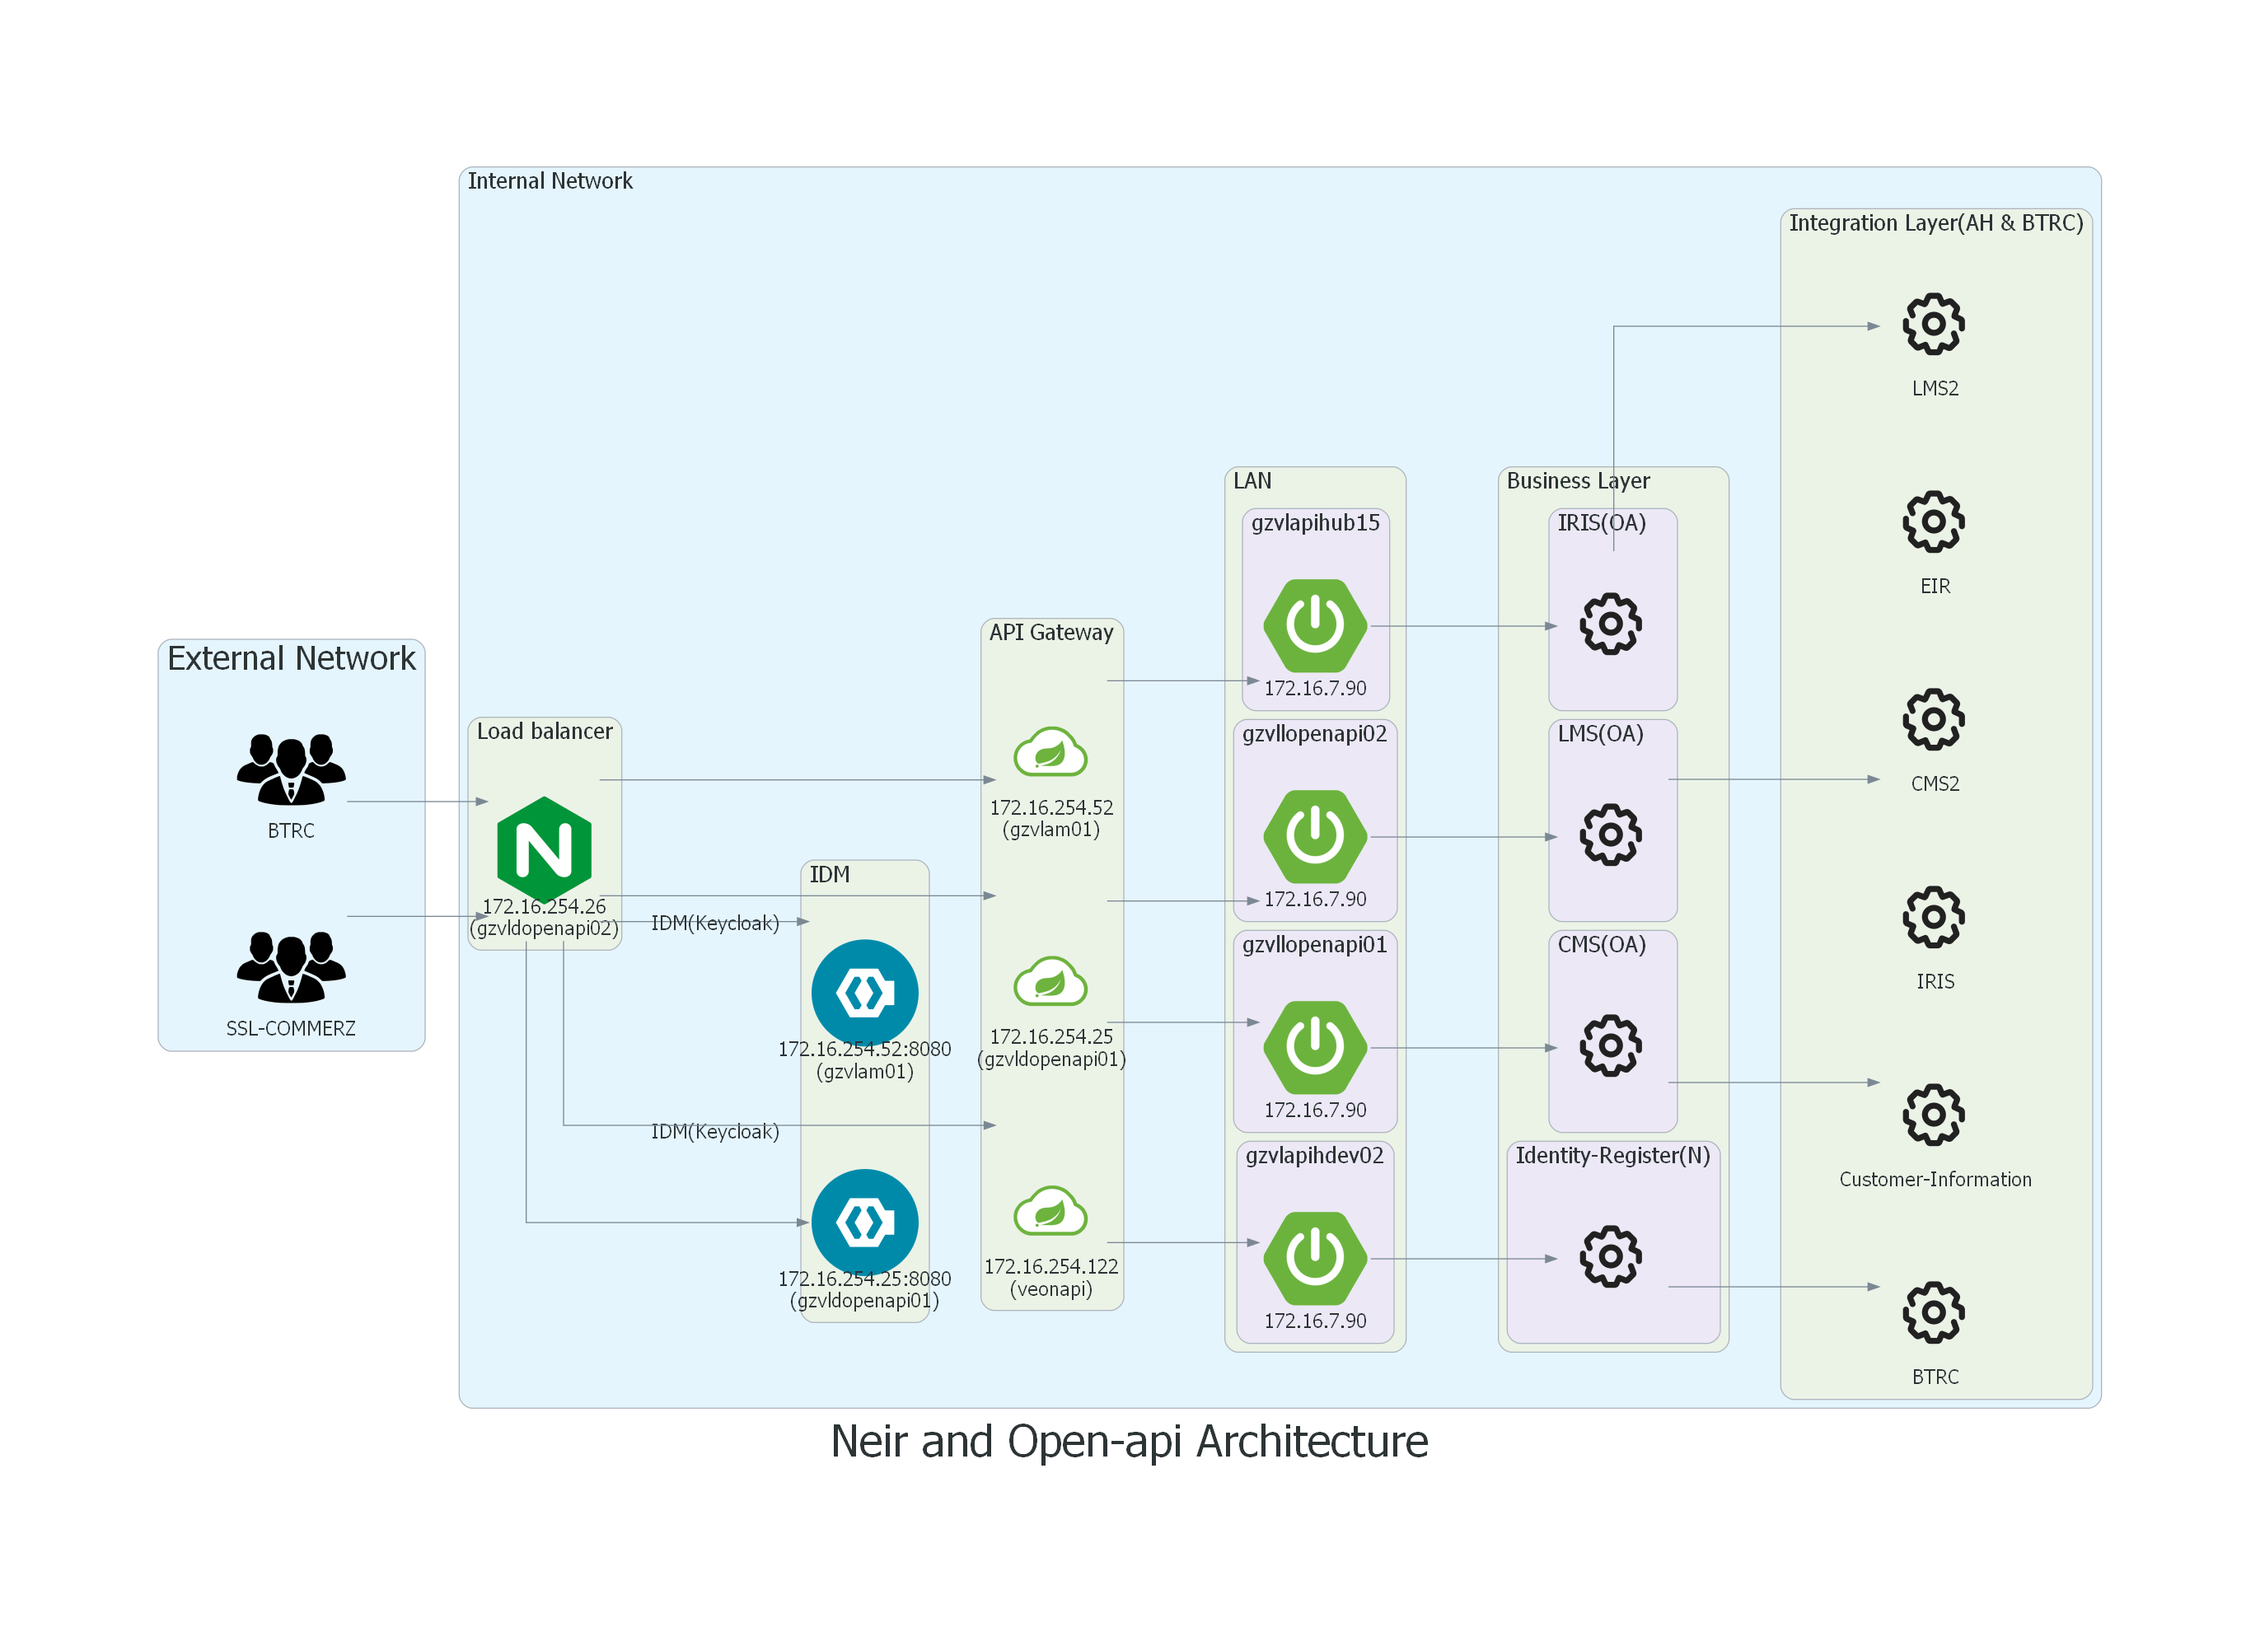
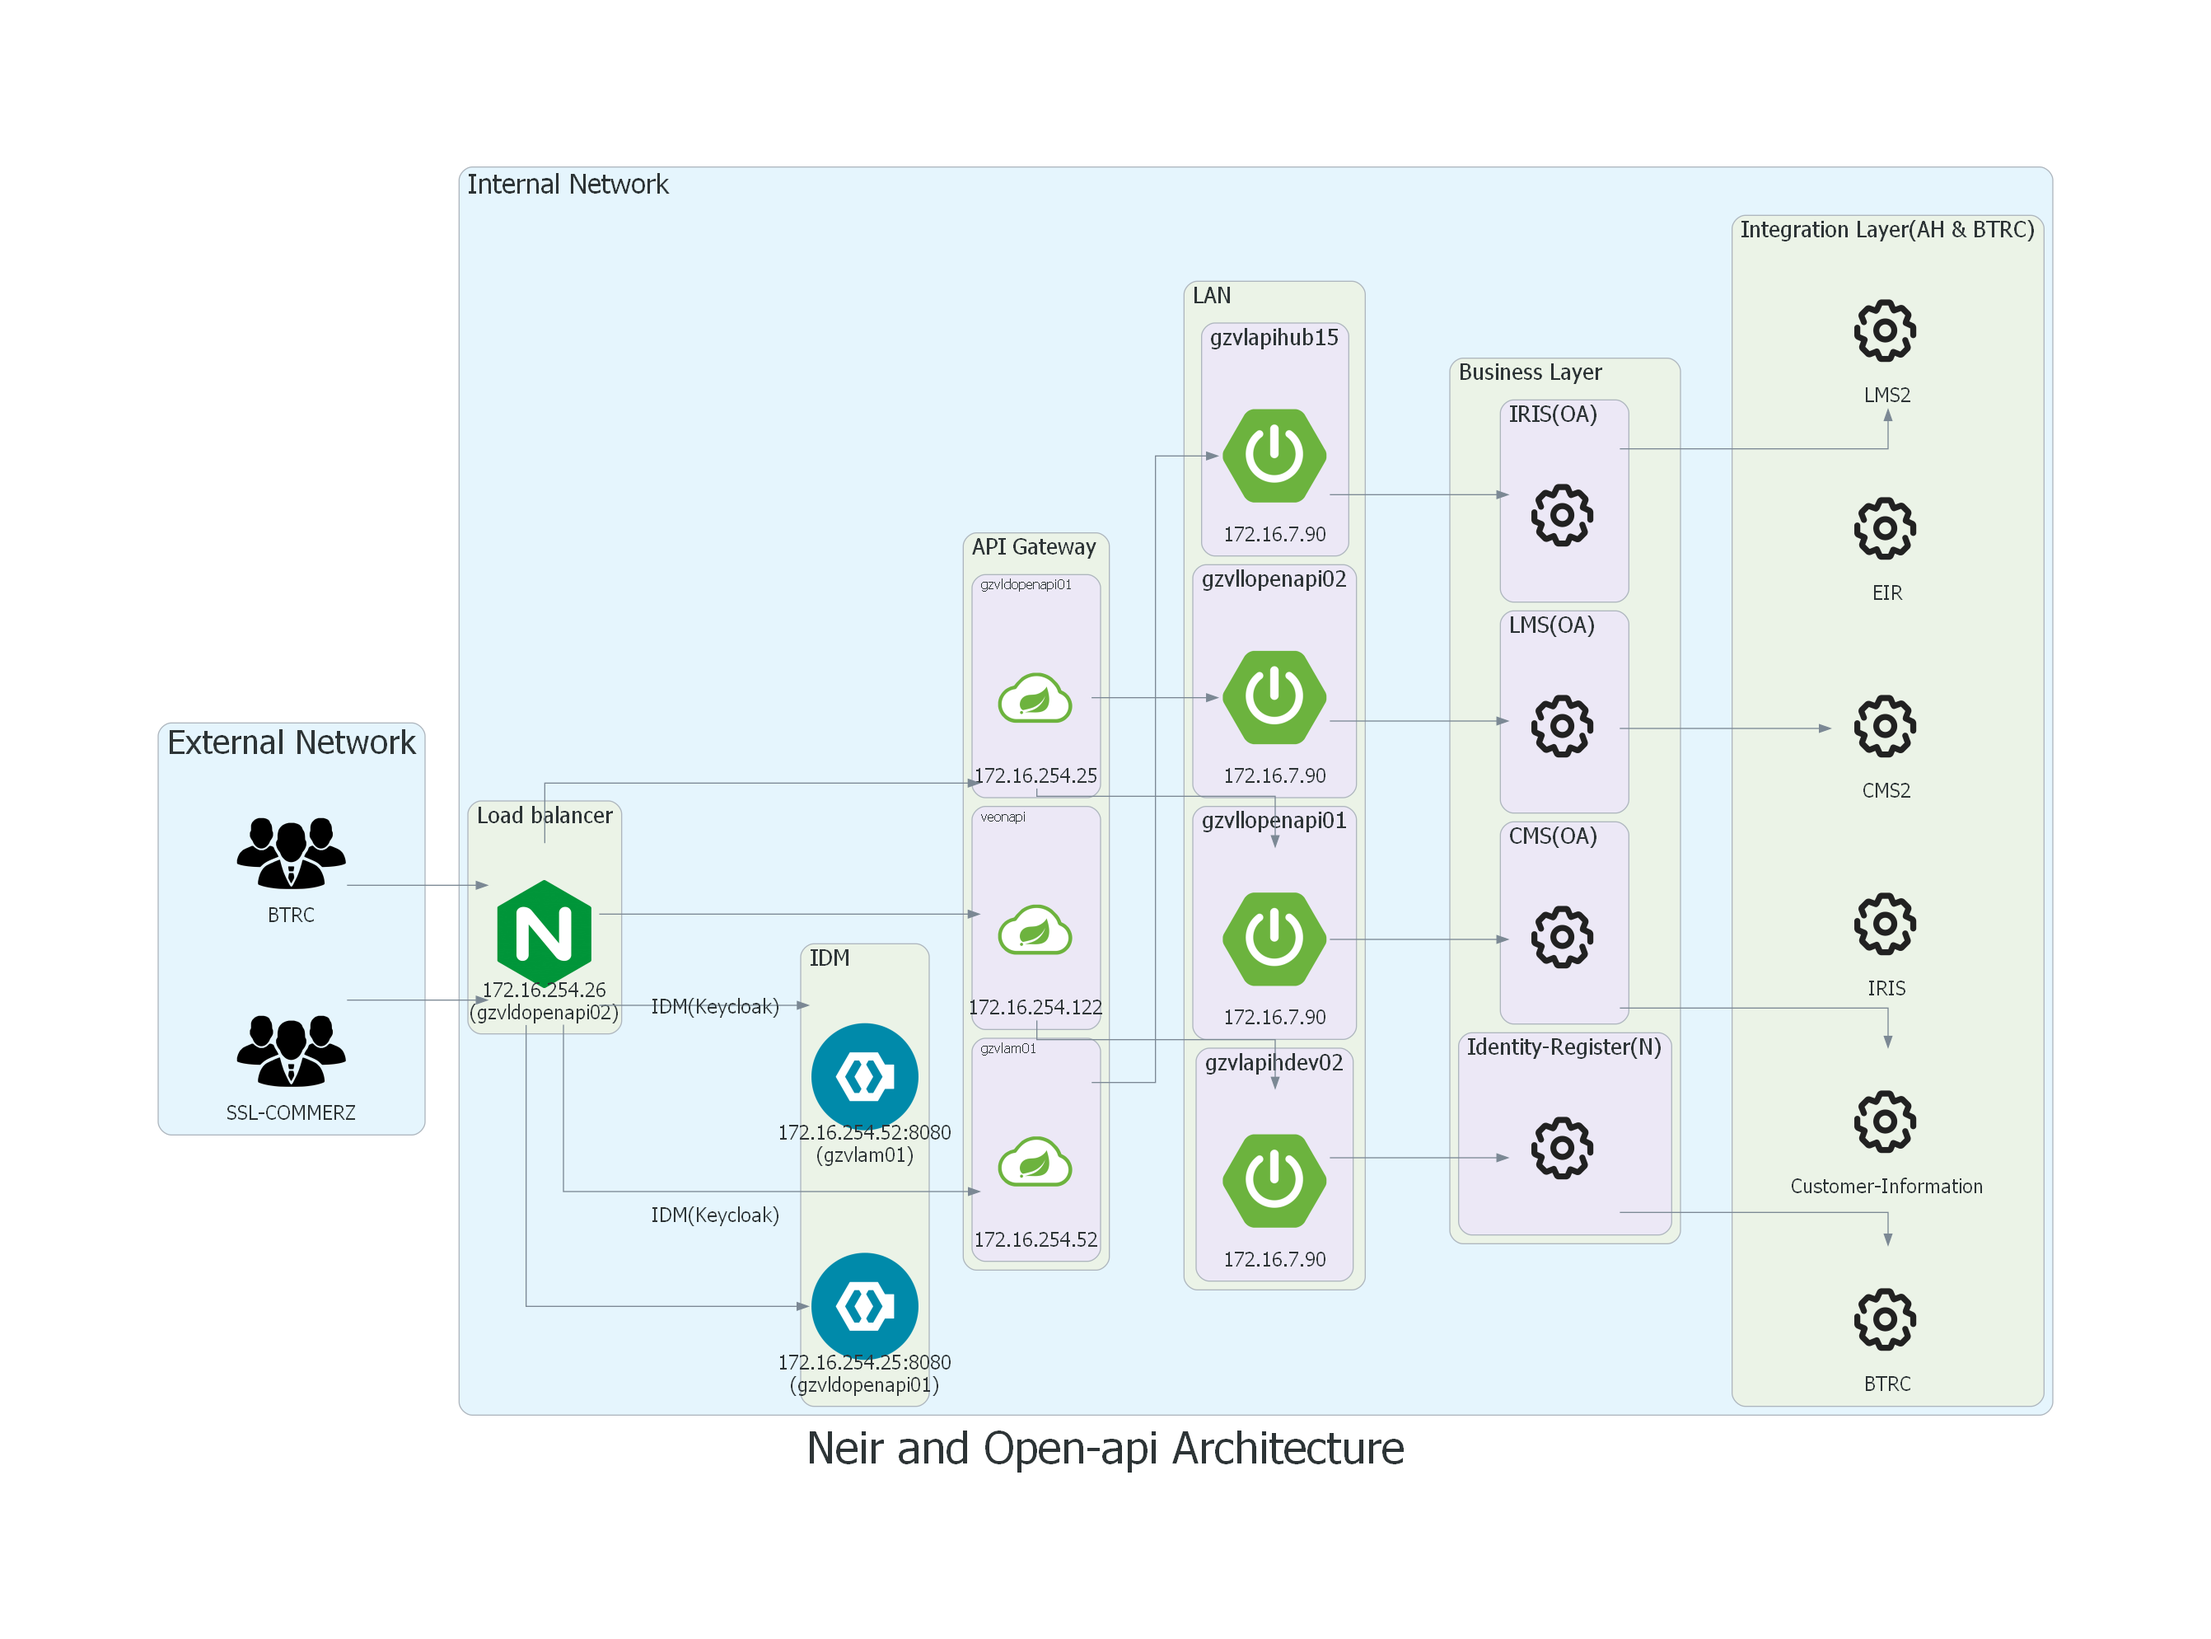
update 3

diff --git a/FinalDiagram.py b/FinalDiagram.py
@@ -27,7 +27,7 @@ graph_ex={
     }
 graph_font={
     "fontsize":"20",
-    "width":"600px"
+    "width":"600"
 }
 
 
@@ -49,19 +49,23 @@ with Diagram("Neir and Open-api Architecture", show=True,graph_attr=graph_attr):
                     Custom("172.16.254.52:8080\n(gzvlam01)",IDM,fontsize="18px")]
             
         with Cluster("API Gateway",graph_attr=graph_font):
-            apiG = Custom("172.16.254.122\n(veonapi)",apiGateway,fontsize="18px")
-            apiG1 = Custom("172.16.254.25\n(gzvldopenapi01)",apiGateway,fontsize="18px")
-            apiG2 = Custom("172.16.254.52\n(gzvlam01)",apiGateway,fontsize="18px")
+            with Cluster('veonapi'):
+                apiG = Custom("\n172.16.254.122",apiGateway,fontsize="18px")
+            with Cluster('gzvldopenapi01'):
+                apiG1 = Custom("\n172.16.254.25",apiGateway,fontsize="18px")
+            with Cluster('gzvlam01'):
+                apiG2 = Custom("\n172.16.254.52",apiGateway,fontsize="18px")
+
 
         with Cluster("LAN",graph_attr=graph_font):
             with Cluster('gzvlapihdev02',graph_attr=graph_font):
-                lan1 = Custom("172.16.7.90",LAN,fontsize="18px")
+                lan1 = Custom("\n172.16.7.90",LAN,fontsize="18px")
             with Cluster('gzvllopenapi01',graph_attr=graph_font):
-                lan2 = Custom("172.16.7.90",LAN,fontsize="18px")
+                lan2 = Custom("\n172.16.7.90",LAN,fontsize="18px")
             with Cluster('gzvllopenapi02',graph_attr=graph_font):
-                lan3 = Custom("172.16.7.90",LAN,fontsize="18px")
+                lan3 = Custom("\n172.16.7.90",LAN,fontsize="18px")
             with Cluster('gzvlapihub15',graph_attr=graph_font):
-                lan4 = Custom("172.16.7.90",LAN,fontsize="18px")
+                lan4 = Custom("\n172.16.7.90",LAN,fontsize="18px")
            
             
         with Cluster("Business Layer",graph_attr=graph_font):

diff --git a/tempCodeRunnerFile.py b/tempCodeRunnerFile.py
@@ -1,0 +1,1 @@
+,fontsize="18px")
